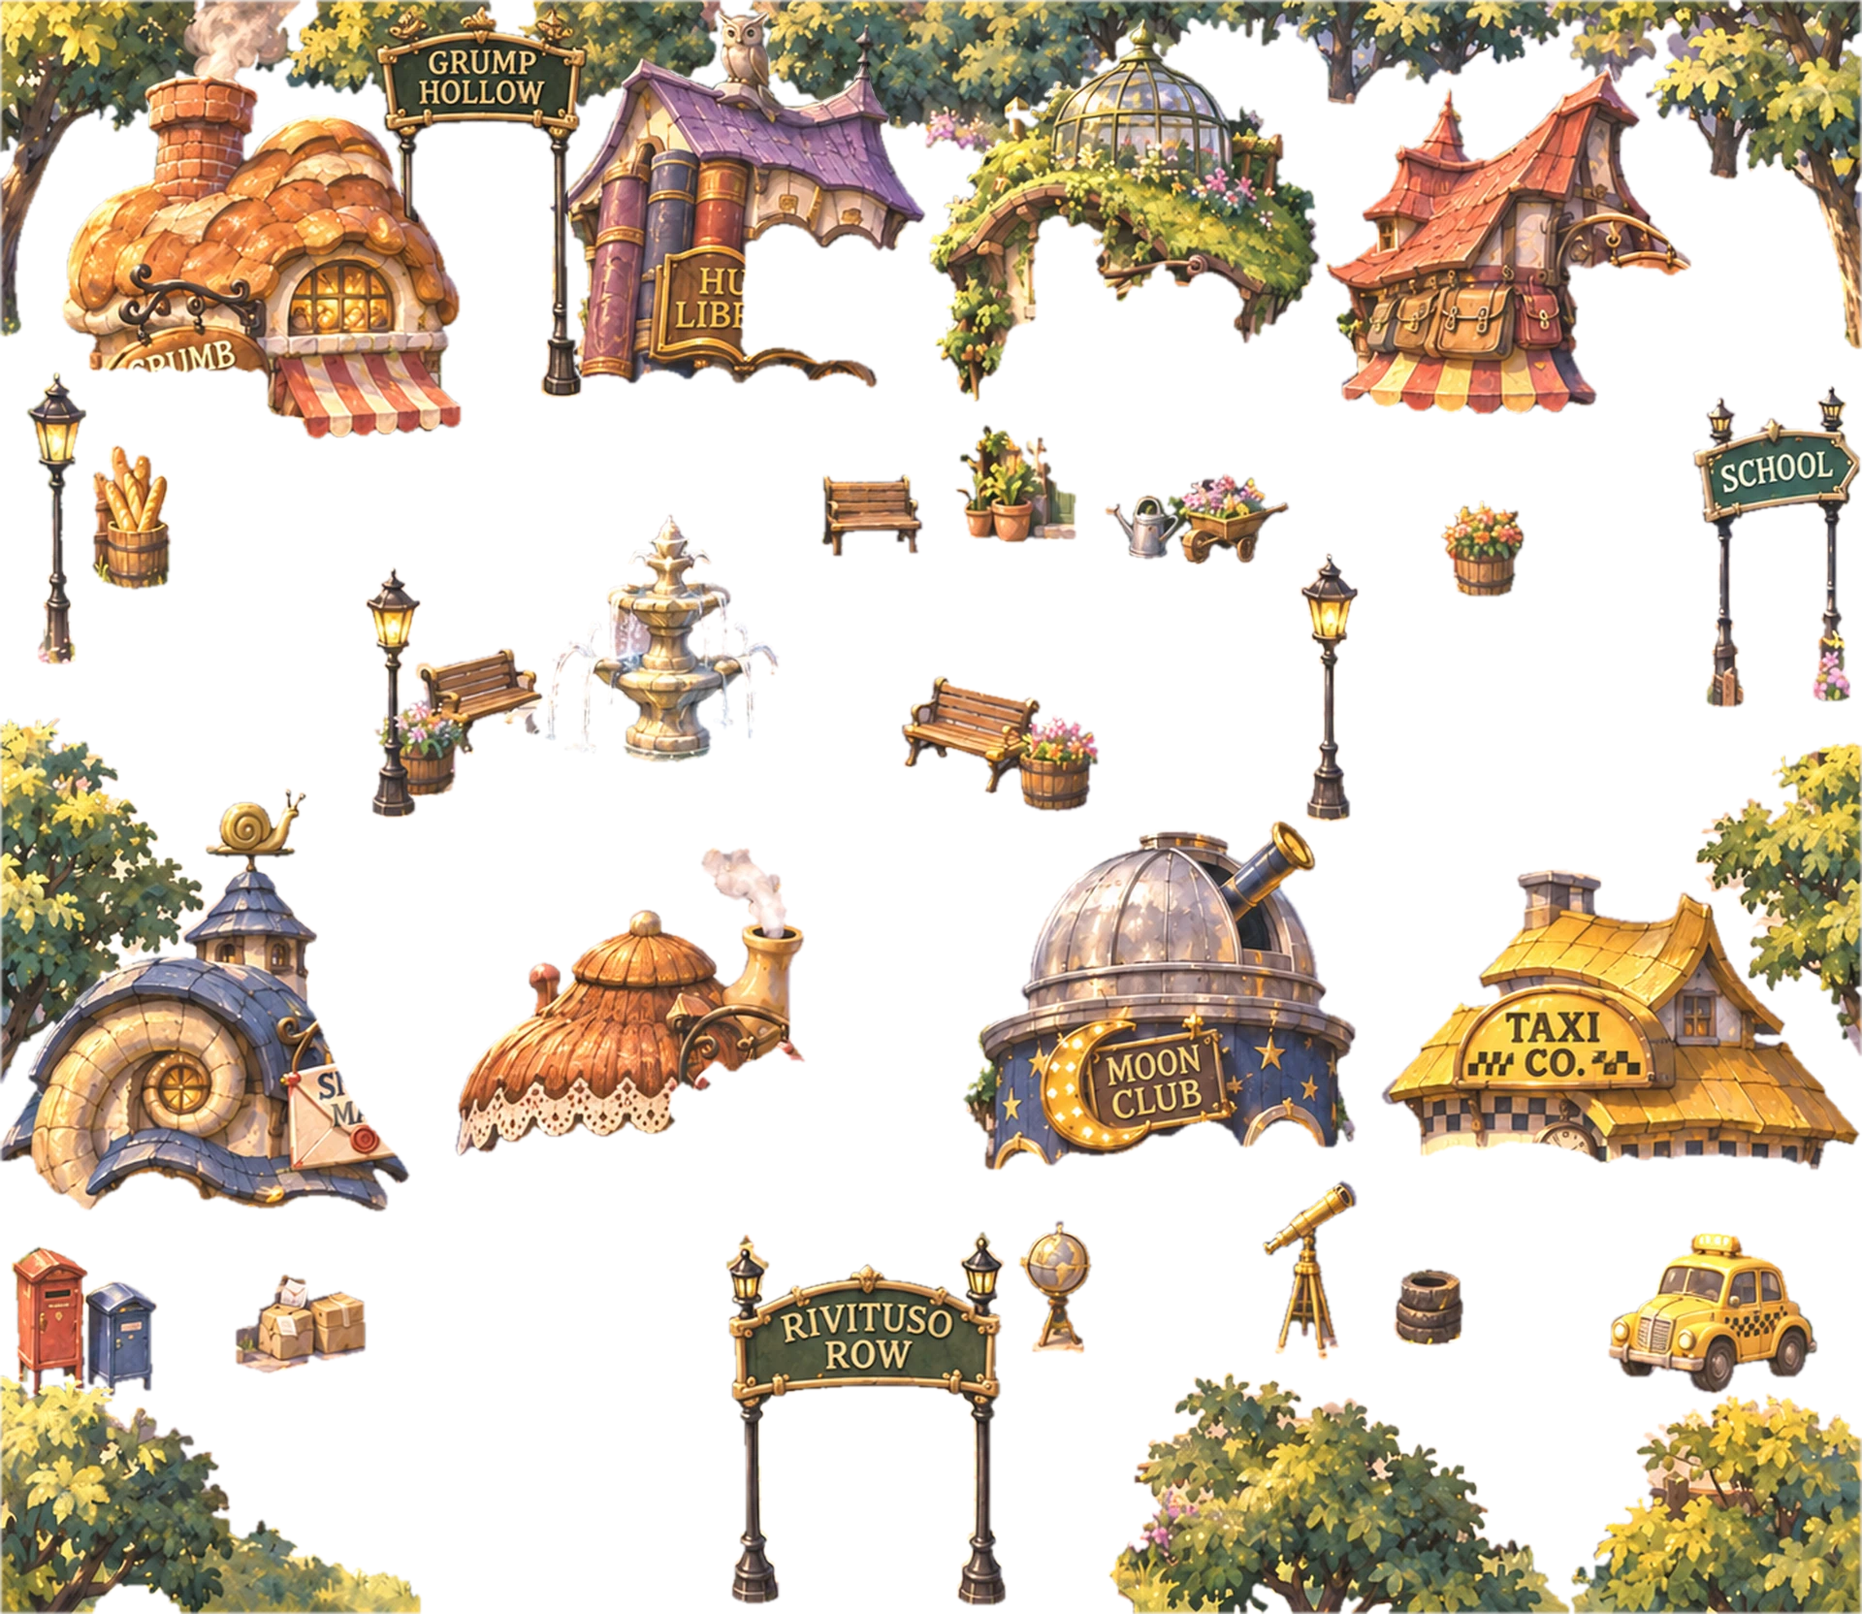
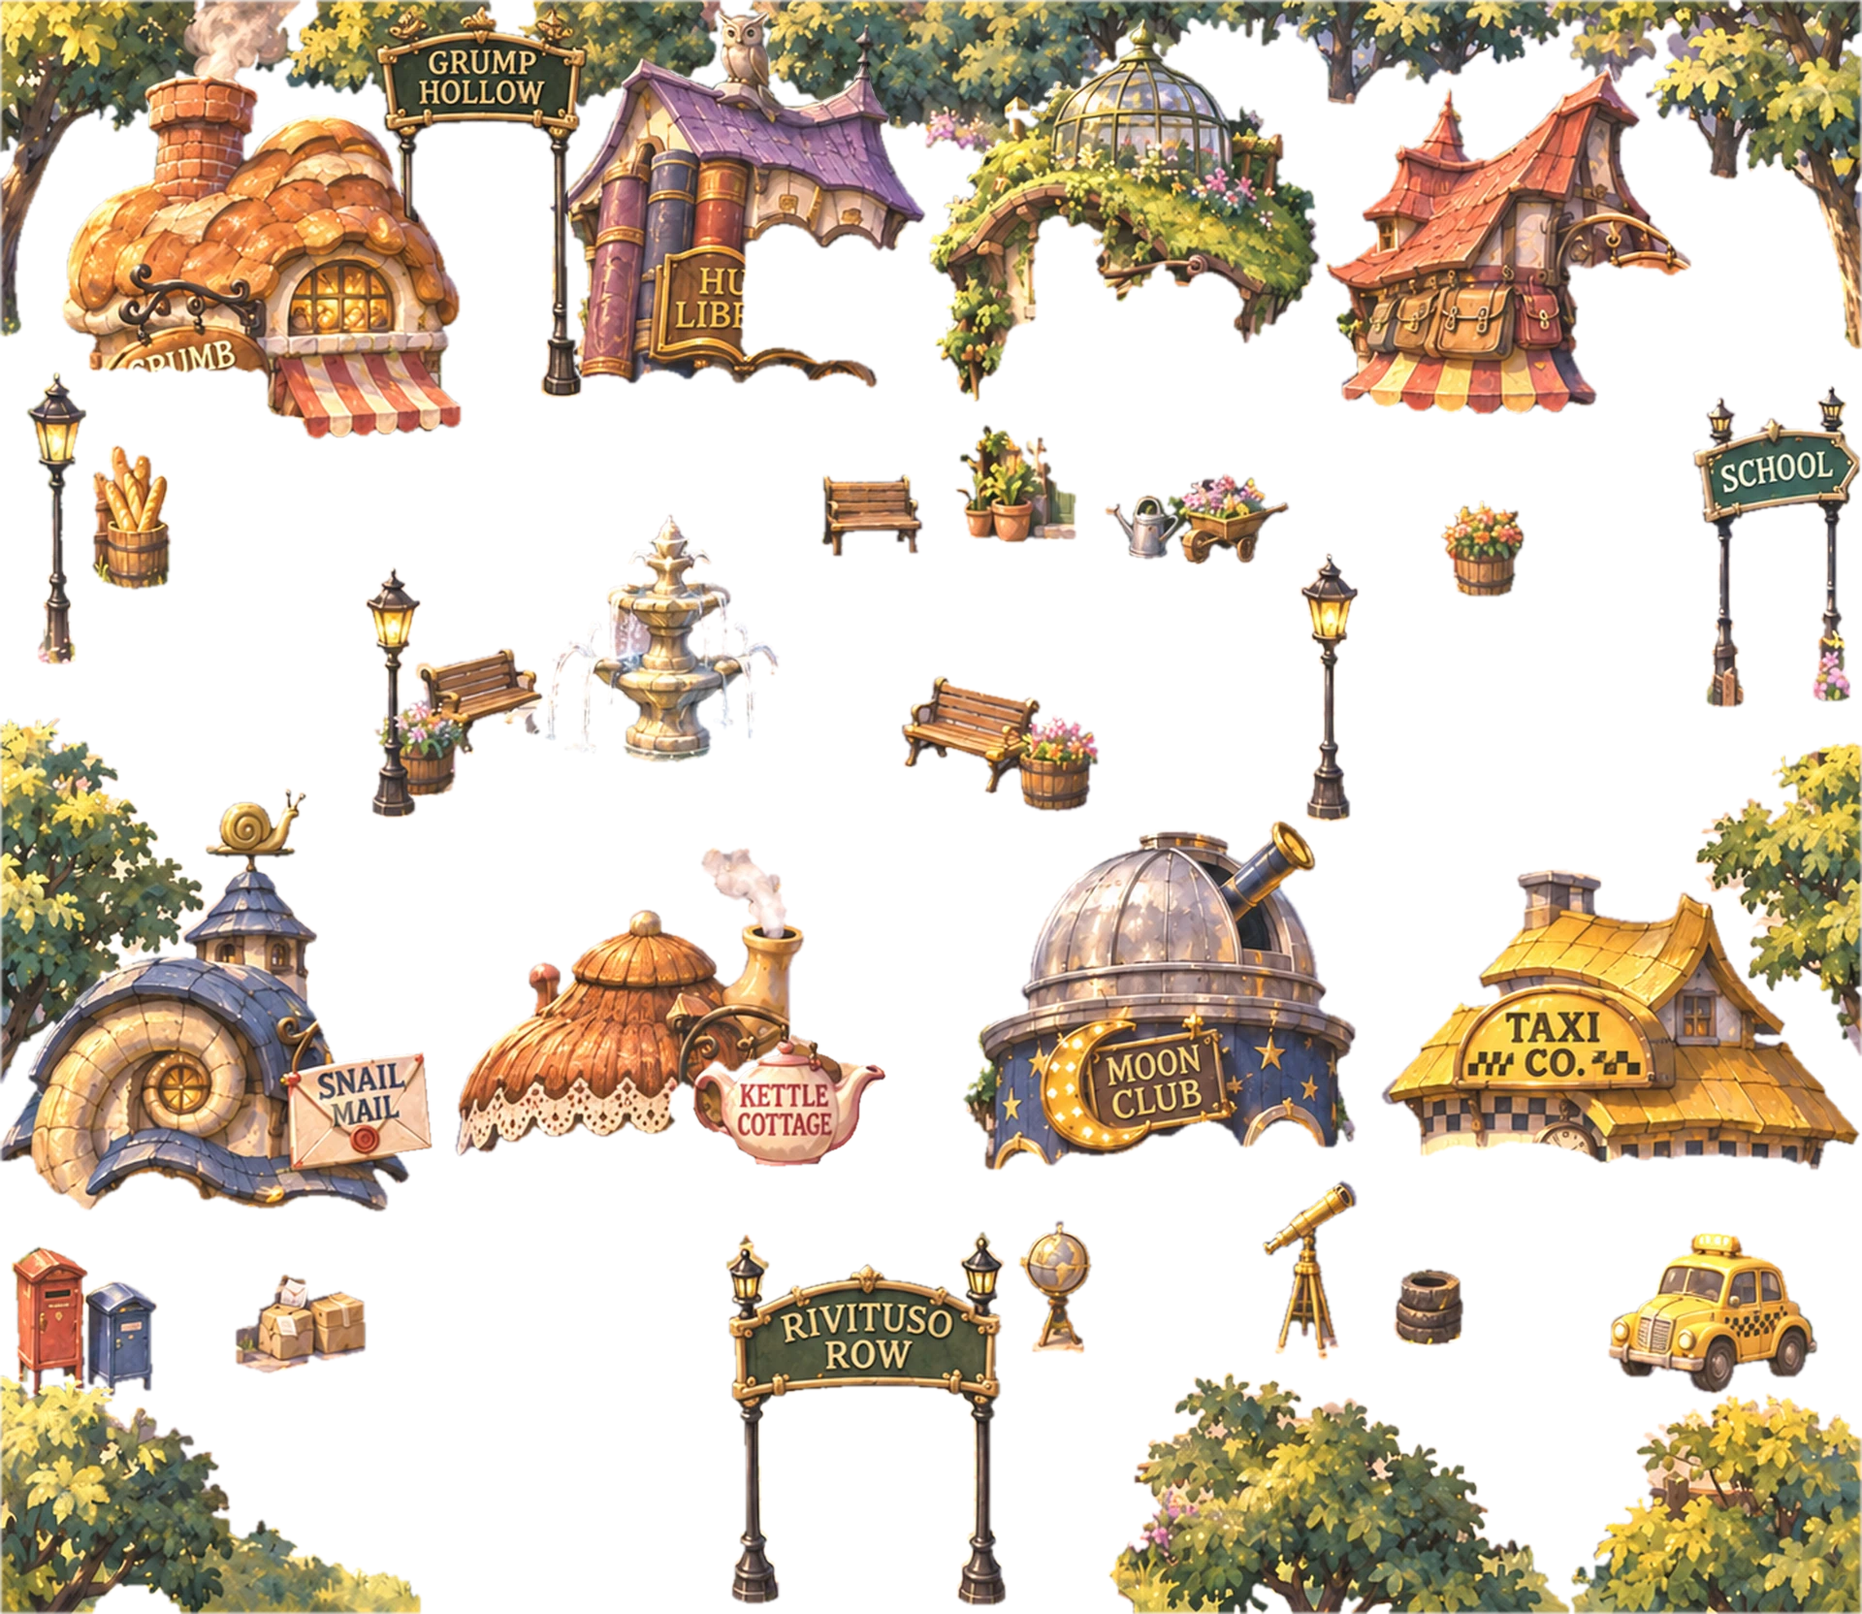
Square: cut out Snail Mail sign and Kettle teapot, raise overhang cutoffs so walkers pass behind them (towncut1)
Claude-Session: https://claude.ai/code/session_01RXeukDgbSzbp1gjcKWiPFz

Changed region(s): [[0.375, 0.625, 0.4688, 0.75], [0.1875, 0.6562, 0.25, 0.7188]]

diff --git a/engine/plate.js b/engine/plate.js
@@ -1,7 +1,7 @@
 'use strict';
 // engine/plate.js — Painted "plate" scenes (32-bit look). A plate replaces the tile/house/object
 // drawing for one map; the tile grid stays as the invisible logic layer (collision, doors, exits, NPCs).
-const PLATES={ town:{src:'art/town.webp?v=square6',fgSrc:'art/town-fg.webp?v=square6',px:64,img:null,ready:false}, row:{src:'art/row.webp?v=row4',fgSrc:'art/row-fg.webp?v=row4',px:64,img:null,ready:false}, hollow:{src:'art/hollow.webp?v=hollow5',fgSrc:'art/hollow-fg.webp?v=hollow5',px:64,img:null,ready:false}, reeds:{src:'art/reeds.webp',px:64,img:null,ready:false}, amyhouse:{src:'art/amyhouse.webp?v=20261030',px:78,img:null,ready:false,square:true,actorScale:1.08,fgSrc:'art/amyhouse-fg.webp?v=amyhouse3d'}, grands:{src:'art/grands.webp?v=20261030',px:78,img:null,ready:false,square:true,fgSrc:'art/grands-fg.webp?v=grands3d'}, elliehouse:{src:'art/elliehouse.webp?v=20261030',px:78,img:null,ready:false,square:true,actorScale:1.98}, sundial:{src:'art/sundial.webp',px:64,img:null,ready:false}, school:{src:'art/school.webp',px:64,img:null,ready:false}, cafetorium:{src:'art/cafetorium.webp',px:64,img:null,ready:false}, readroom:{src:'art/readroom.webp',px:64,img:null,ready:false}, stacks:{src:'art/stacks.webp',px:64,img:null,ready:false}, moonclub:{src:'art/moonclub.webp',px:64,img:null,ready:false}, dome:{src:'art/dome.webp',px:64,img:null,ready:false}, gatezero:{src:'art/gatezero.webp',px:64,img:null,ready:false}, library:{src:'art/library.webp?v=20261030',px:78,img:null,ready:false,square:true}, terminal:{src:'art/terminal.webp',px:64,img:null,ready:false}, bakery:{src:'art/bakery.webp?v=20261030',px:78,img:null,ready:false,square:true}, greenhouse:{src:'art/greenhouse.webp?v=20261030',px:78,img:null,ready:false,square:true}, shop:{src:'art/shop.webp?v=20261030',px:78,img:null,ready:false,square:true}, observatory:{src:'art/observatory.webp?v=20261030',px:78,img:null,ready:false,square:true}, post:{src:'art/post.webp?v=20261030',px:78,img:null,ready:false,square:true}, tea:{src:'art/tea.webp?v=20261030',px:78,img:null,ready:false,square:true}, jpark:{src:'art/jpark.webp?v=20261029',px:64,img:null,ready:false}, griffith:{src:'art/griffith.webp?v=griffith2',fgSrc:'art/griffith-fg.webp?v=griffith2',px:64,img:null,ready:false}, taxi:{src:'art/taxi.webp?v=20261030',px:78,img:null,ready:false,square:true}, blvd:{src:'art/blvd.webp?v=dtla12',fgSrc:'art/blvd-fg.webp?v=dtla12',px:64,img:null,ready:false} };
+const PLATES={ town:{src:'art/town.webp?v=square6',fgSrc:'art/town-fg.webp?v=towncut1',px:64,img:null,ready:false}, row:{src:'art/row.webp?v=row4',fgSrc:'art/row-fg.webp?v=row4',px:64,img:null,ready:false}, hollow:{src:'art/hollow.webp?v=hollow5',fgSrc:'art/hollow-fg.webp?v=hollow5',px:64,img:null,ready:false}, reeds:{src:'art/reeds.webp',px:64,img:null,ready:false}, amyhouse:{src:'art/amyhouse.webp?v=20261030',px:78,img:null,ready:false,square:true,actorScale:1.08,fgSrc:'art/amyhouse-fg.webp?v=amyhouse3d'}, grands:{src:'art/grands.webp?v=20261030',px:78,img:null,ready:false,square:true,fgSrc:'art/grands-fg.webp?v=grands3d'}, elliehouse:{src:'art/elliehouse.webp?v=20261030',px:78,img:null,ready:false,square:true,actorScale:1.98}, sundial:{src:'art/sundial.webp',px:64,img:null,ready:false}, school:{src:'art/school.webp',px:64,img:null,ready:false}, cafetorium:{src:'art/cafetorium.webp',px:64,img:null,ready:false}, readroom:{src:'art/readroom.webp',px:64,img:null,ready:false}, stacks:{src:'art/stacks.webp',px:64,img:null,ready:false}, moonclub:{src:'art/moonclub.webp',px:64,img:null,ready:false}, dome:{src:'art/dome.webp',px:64,img:null,ready:false}, gatezero:{src:'art/gatezero.webp',px:64,img:null,ready:false}, library:{src:'art/library.webp?v=20261030',px:78,img:null,ready:false,square:true}, terminal:{src:'art/terminal.webp',px:64,img:null,ready:false}, bakery:{src:'art/bakery.webp?v=20261030',px:78,img:null,ready:false,square:true}, greenhouse:{src:'art/greenhouse.webp?v=20261030',px:78,img:null,ready:false,square:true}, shop:{src:'art/shop.webp?v=20261030',px:78,img:null,ready:false,square:true}, observatory:{src:'art/observatory.webp?v=20261030',px:78,img:null,ready:false,square:true}, post:{src:'art/post.webp?v=20261030',px:78,img:null,ready:false,square:true}, tea:{src:'art/tea.webp?v=20261030',px:78,img:null,ready:false,square:true}, jpark:{src:'art/jpark.webp?v=20261029',px:64,img:null,ready:false}, griffith:{src:'art/griffith.webp?v=griffith2',fgSrc:'art/griffith-fg.webp?v=griffith2',px:64,img:null,ready:false}, taxi:{src:'art/taxi.webp?v=20261030',px:78,img:null,ready:false,square:true}, blvd:{src:'art/blvd.webp?v=dtla12',fgSrc:'art/blvd-fg.webp?v=dtla12',px:64,img:null,ready:false} };
 PLATES.pier={src:'art/pier.webp?v=20261029',px:64,img:null,ready:false};
 PLATES.studio={src:'art/studio.webp?v=20261029',px:64,img:null,ready:false};
 PLATES.backlot={src:'art/backlot.webp?v=20261029',px:64,img:null,ready:false};
@@ -205,7 +205,7 @@ PLATE_BEHIND.blvd=[{x:2,y:0,w:143,h:113,base:113,fg:true},{x:222,y:0,w:454,h:683
 // THE STACKS: the hall props, cut out in art/stacks-fg.webp (tools/make_stacks_fg.py). Row 8 runs behind the globe, the book stacks, the cart,
 // both lamp pedestals and both plants (their bases are row 9), so anyone standing on row 8 or 7 there is behind them. The globe is two zones: its
 // upper half (base 520) only covers row 7, so Tom stays visible on row 8; the stand and lower half (base 636) cover row 8.
-PLATE_BEHIND.town=[{x:0,y:0,w:238,h:347,base:347,fg:true},{x:263,y:0,w:244,h:98,base:98,fg:true},{x:534,y:0,w:214,h:111,base:111,fg:true},{x:772,y:0,w:1148,h:360,base:360,fg:true},{x:0,y:740,w:212,h:377,base:1117,fg:true},{x:1748,y:765,w:172,h:324,base:1089,fg:true},{x:1142,y:1415,w:477,h:249,base:1664,fg:true},{x:0,y:1418,w:434,h:246,base:1664,fg:true},{x:1620,y:1437,w:300,h:227,base:1664,fg:true},{x:63,y:0,w:413,h:453,base:453,fg:true},{x:566,y:11,w:389,h:389,base:400,fg:true},{x:958,y:17,w:404,h:397,base:414,fg:true},{x:1367,y:70,w:377,h:357,base:427,fg:true},{x:0,y:813,w:423,h:436,base:1249,fg:true},{x:993,y:846,w:405,h:360,base:1206,fg:true},{x:469,y:874,w:361,h:318,base:1192,fg:true},{x:1424,y:897,w:494,h:309,base:1206,fg:true},{x:387,y:9,w:218,h:401,base:410,fg:true},{x:28,y:384,w:61,h:301,base:685,fg:true},{x:1746,y:398,w:172,h:331,base:729,fg:true},{x:1340,y:570,w:61,h:277,base:847,fg:true},{x:377,y:585,w:57,h:258,base:843,fg:true},{x:749,y:1270,w:288,h:385,base:1655,fg:true},{x:986,y:438,w:124,h:121,base:559,fg:true},{x:95,y:459,w:81,h:149,base:608,fg:true},{x:1139,y:488,w:190,h:94,base:582,fg:true},{x:847,y:489,w:105,h:85,base:574,fg:true},{x:1486,y:516,w:86,h:99,base:615,fg:true},{x:563,y:531,w:240,h:256,base:787,fg:true},{x:386,y:669,w:174,h:153,base:822,fg:true},{x:930,y:697,w:203,h:140,base:837,fg:true},{x:1302,y:1217,w:97,h:185,base:1402,fg:true},{x:1051,y:1258,w:74,h:138,base:1396,fg:true},{x:1658,y:1271,w:216,h:166,base:1437,fg:true},{x:12,y:1285,w:150,h:155,base:1440,fg:true},{x:1437,y:1308,w:72,h:79,base:1387,fg:true},{x:243,y:1314,w:134,h:103,base:1417,fg:true}];
+PLATE_BEHIND.town=[{x:0,y:0,w:238,h:347,base:347,fg:true},{x:263,y:0,w:244,h:98,base:98,fg:true},{x:534,y:0,w:214,h:111,base:111,fg:true},{x:772,y:0,w:1148,h:360,base:360,fg:true},{x:0,y:740,w:212,h:377,base:1117,fg:true},{x:1748,y:765,w:172,h:324,base:1089,fg:true},{x:1142,y:1415,w:477,h:249,base:1664,fg:true},{x:0,y:1418,w:434,h:246,base:1664,fg:true},{x:1620,y:1437,w:300,h:227,base:1664,fg:true},{x:63,y:0,w:413,h:453,base:590,fg:true},{x:566,y:11,w:389,h:389,base:400,fg:true},{x:958,y:17,w:404,h:397,base:414,fg:true},{x:1367,y:70,w:377,h:357,base:427,fg:true},{x:0,y:813,w:423,h:436,base:1350,fg:true},{x:993,y:846,w:405,h:360,base:1206,fg:true},{x:469,y:874,w:361,h:318,base:1350,fg:true},{x:1424,y:897,w:494,h:309,base:1206,fg:true},{x:387,y:9,w:218,h:401,base:410,fg:true},{x:28,y:384,w:61,h:301,base:685,fg:true},{x:1746,y:398,w:172,h:331,base:729,fg:true},{x:1340,y:570,w:61,h:277,base:847,fg:true},{x:377,y:585,w:57,h:258,base:843,fg:true},{x:749,y:1270,w:288,h:385,base:1672,fg:true},{x:986,y:438,w:124,h:121,base:559,fg:true},{x:95,y:459,w:81,h:149,base:608,fg:true},{x:1139,y:488,w:190,h:94,base:582,fg:true},{x:847,y:489,w:105,h:85,base:574,fg:true},{x:1486,y:516,w:86,h:99,base:615,fg:true},{x:563,y:531,w:240,h:256,base:787,fg:true},{x:386,y:669,w:174,h:153,base:822,fg:true},{x:930,y:697,w:203,h:140,base:837,fg:true},{x:1302,y:1217,w:97,h:185,base:1402,fg:true},{x:1051,y:1258,w:74,h:138,base:1396,fg:true},{x:1658,y:1271,w:216,h:166,base:1437,fg:true},{x:12,y:1285,w:150,h:155,base:1440,fg:true},{x:1437,y:1308,w:72,h:79,base:1387,fg:true},{x:243,y:1314,w:134,h:103,base:1417,fg:true},{x:293,y:1084,w:153,h:120,base:1350,fg:true},{x:714,y:1066,w:200,h:137,base:1350,fg:true}];
 PLATE_BEHIND.stacks=[
   {x:743,y:470,w:126,h:72,base:520,fg:true},{x:743,y:540,w:126,h:101,base:636,fg:true},{x:743,y:569,w:41,h:84,base:650,fg:true},{x:856,y:544,w:53,h:89,base:632,fg:true},
   {x:696,y:468,w:55,h:201,base:666,fg:true},{x:653,y:516,w:50,h:133,base:648,fg:true},

diff --git a/index.html b/index.html
@@ -1550,7 +1550,7 @@ document.addEventListener('click',function(e){var n=e.target.closest&&e.target.c
 <script src="engine/club-render.js"></script>
 <script src="engine/terminal-render.js"></script>
 <script src="engine/infinity-render.js"></script>
-<script src="engine/plate.js?v=dtla12c"></script>
+<script src="engine/plate.js?v=towncut1"></script>
 <script src="engine/draw.js?v=scroll1"></script>
 <script src="engine/intro.js?v=storypose1"></script>
 <script src="data/flight-art.js?v=flight14"></script>
@@ -1602,7 +1602,7 @@ document.addEventListener('click',function(e){var n=e.target.closest&&e.target.c
 <script src="data/emotion-moods.js?v=emo14"></script>
 <script src="engine/emotions.js?v=emo8"></script><!-- mood faces and poses in story dialogue (batch 0: chapter 1) -->
 <script src="engine/tapwalk.js?v=wind1"></script><!-- tap to walk -->
-<script src="engine/main.js?v=wheelboop1"></script>
+<script src="engine/main.js?v=towncut1"></script>
 <script src="engine/music.js"></script>
 <script src="data/songs.js"></script>
 <script src="engine/music-clips.js?v=music1"></script>

diff --git a/engine/main.js b/engine/main.js
@@ -83,7 +83,15 @@ startSplash();
 (function(){
   const sp=document.getElementById('splash'); if(!sp) return;
   const d=document.createElement('div');
-  d.textContent='build wheelboop1';
+<<<<<<< HEAD
+  d.textContent='build towncut1';
+=======
+<<<<<<< Updated upstream
+  d.textContent='build tx1';
+=======
+  d.textContent='build towncut1';
+>>>>>>> Stashed changes
+>>>>>>> 278be29 (Square: cut out Snail Mail sign and Kettle teapot, raise overhang cutoffs so walkers pass behind them (towncut1))
   d.style.cssText='position:absolute;left:8px;bottom:4px;font:10px monospace;color:#fff;opacity:.45;pointer-events:none;z-index:50';
   sp.appendChild(d);
 })();

diff --git a/tools/make_town_fg.py b/tools/make_town_fg.py
@@ -32,6 +32,23 @@ KEEP_SIGNS = [(269, 3, 427, 288), (1221, 276, 1347, 517), (521, 887, 732, 1167),
 POSTBAND = {'signs': [(380, 165, 425, 245)]}
 MINAREA = {'trees': 1500, 'roofs': 3000, 'signs': 1500, 'props': 1500}   # wall lanterns in the signs mask are small and not painted: area filter drops them
 CLASSES = ['trees', 'roofs', 'signs', 'props']
+# Overhangs (Tom 2026-11-06, `town` walk-behind fix): the Snail Mail sign and the Kettle Cottage teapot hang out over the lane, so anyone walking up the lane
+# (tiles x 6-7 and x 13-15) has a head that reaches into them. The masks never had them, so they are cut here from the plate itself (polygon plus
+# GrabCut, art px). env = the sign board, region = board plus bracket (generous); base = feet line of the lane tile just below the door row.
+SIGN_CUTS = [
+    {'name': 'snailmail', 'base': 1350,
+     'env': [(299, 1109), (437, 1084), (446, 1184), (308, 1204)],
+     'region': [(283, 1040), (447, 1040), (447, 1090), (300, 1093), (283, 1080)]},
+    {'name': 'kettle', 'base': 1350,
+     'env': [(807, 1078), (820, 1073), (835, 1075), (843, 1090), (853, 1096), (873, 1101), (890, 1097), (903, 1097), (913, 1103), (912, 1111), (900, 1118), (890, 1127),
+             (883, 1150), (873, 1173), (860, 1186), (845, 1193), (845, 1201), (779, 1201), (777, 1194), (761, 1185), (755, 1174), (742, 1167), (727, 1157), (717, 1137),
+             (715, 1115), (723, 1107), (738, 1108), (753, 1117), (767, 1108), (787, 1097), (801, 1090)],
+     'region': [(700, 1040), (860, 1040), (860, 1090), (800, 1092), (700, 1082)]},
+]
+# Zones whose base (feet line) was too high for what hangs over the lane: the walker's head is under the overhang but the feet are a row south of the base.
+# Matched by (x, y) of the zone box. 590 = feet of row 8 (stairs under the bakery awning), 1350 = feet of row 20 (the lane under both roofs), 1672 = a hair below the
+# arch posts so anyone standing beside a post on the bottom row is not drawn over it.
+BASE_FIX = {(63, 0): 590, (0, 813): 1350, (469, 874): 1350, (749, 1270): 1672}
 def keyed(img):
     d = np.abs(img.astype(int) - KEY).sum(2)
     return d > 90
@@ -96,6 +113,34 @@ def fit(p, win=26):
     p['pcol'] = pcol
     return rms, float(s), float(dx), float(dy), placed
 DBG = np.zeros((H, W), np.uint8)
+def sign_cut(plate, sc):
+    """Alpha (plate size, uint8) of a hanging sign: the board polygon is sure foreground, gold bracket pixels near it are probable foreground, GrabCut decides the rim."""
+    def poly(pts):
+        m = np.zeros((PH, PW), np.uint8); cv2.fillPoly(m, [np.array(pts, np.int32)], 1); return m.astype(bool)
+    env, reg = poly(sc['env']), poly(sc['region'])
+    both = env | reg
+    ys, xs = np.where(both); x0, x1, y0, y1 = max(0, xs.min() - 14), min(PW, xs.max() + 15), max(0, ys.min() - 14), min(PH, ys.max() + 15)
+    img = plate[y0:y1, x0:x1].copy(); e, r = env[y0:y1, x0:x1], reg[y0:y1, x0:x1]
+    hsv = cv2.cvtColor(img, cv2.COLOR_RGB2HSV)
+    gold = (hsv[..., 0] >= 8) & (hsv[..., 0] <= 30) & (hsv[..., 1] > 110) & (hsv[..., 2] > 70) & (hsv[..., 2] < 235)
+    dil = ndi.binary_dilation(e | r, iterations=7)
+    gm = np.full(e.shape, cv2.GC_BGD, np.uint8)
+    gm[dil] = cv2.GC_PR_BGD
+    gm[r & gold] = cv2.GC_PR_FGD
+    gm[e] = cv2.GC_PR_FGD
+    gm[ndi.binary_erosion(e, iterations=4)] = cv2.GC_FGD
+    bgd, fgd = np.zeros((1, 65)), np.zeros((1, 65))
+    cv2.grabCut(cv2.cvtColor(img, cv2.COLOR_RGB2BGR), gm, None, bgd, fgd, 6, cv2.GC_INIT_WITH_MASK)
+    a = (gm == cv2.GC_FGD) | (gm == cv2.GC_PR_FGD)
+    a = ndi.binary_opening(a, iterations=1) | ndi.binary_erosion(e, iterations=1)
+    lab, n = ndi.label(a)
+    if n > 1:
+        sizes = ndi.sum(a, lab, range(1, n + 1)); a = np.isin(lab, [i + 1 for i, v in enumerate(sizes) if v >= 40])
+    a = ndi.binary_fill_holes(a)
+    a = ndi.binary_erosion(a, iterations=1)
+    af = np.clip(cv2.GaussianBlur(a.astype(np.float32), (0, 0), 0.8), 0, 1)
+    out = np.zeros((PH, PW), np.uint8); out[y0:y1, x0:x1] = (af * 255).astype(np.uint8)
+    return out
 def build():
     pcs = []
     for cls in CLASSES:
@@ -152,6 +197,15 @@ def main():
         p['alpha'] = al
         zones.append((p['cls'], p['zone']))
         rows.append((k, p['cls'], p['bb'], round(p['rms'], 1), round(p['s'], 2), round(p['dx'], 1), round(p['dy'], 1), p['zone'], p.get('removed')))
+    for sc in SIGN_CUTS:
+        al = sign_cut(plate, sc)
+        fg[..., 3] = np.maximum(fg[..., 3], al)
+        ys, xs = np.where(al > 40)
+        x0, x1, y0, y1 = int(xs.min()), int(xs.max()) + 1, int(ys.min()), int(ys.max()) + 1
+        zones.append(('signcut', {'x': x0, 'y': y0, 'w': x1 - x0, 'h': y1 - y0, 'base': sc['base']}))
+        rows.append((len(rows), 'signcut', (0, 0, 0, 0), 0.0, 1.0, 0.0, 0.0, zones[-1][1], sc['name']))
+    for _, z in zones:
+        if (z['x'], z['y']) in BASE_FIX: z['base'] = BASE_FIX[(z['x'], z['y'])]
     fg[..., :3] = plate
     if '--no-save' not in sys.argv and '--zones-only' not in sys.argv:
         Image.fromarray(plate).save(ROOT + '/art/town.webp', quality=88, method=6)
